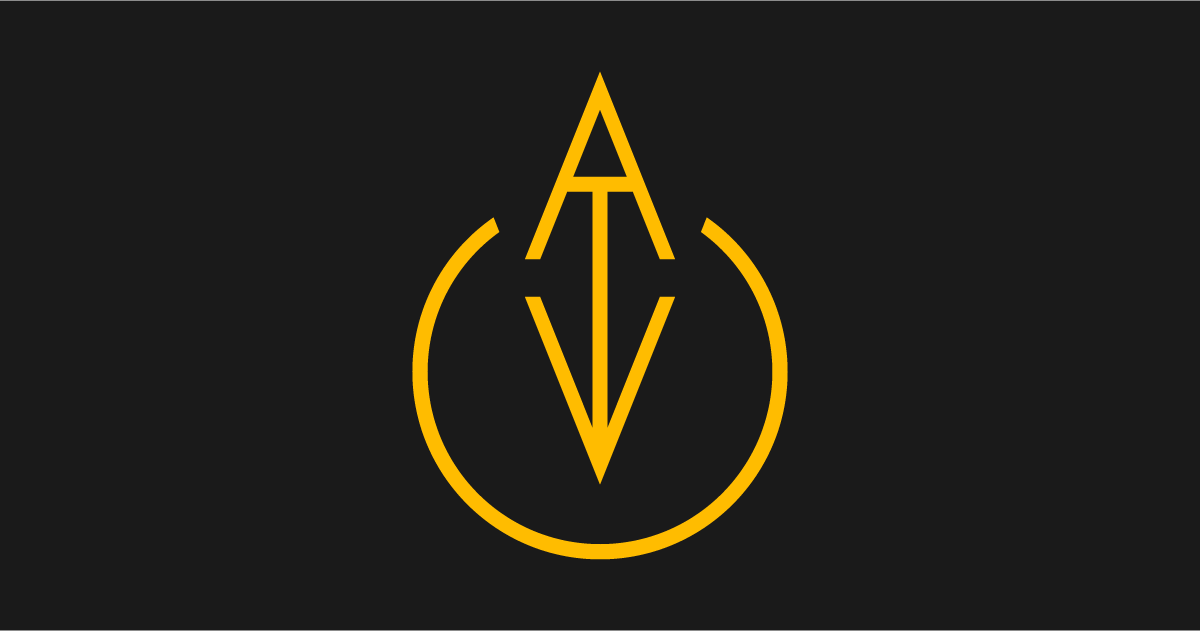
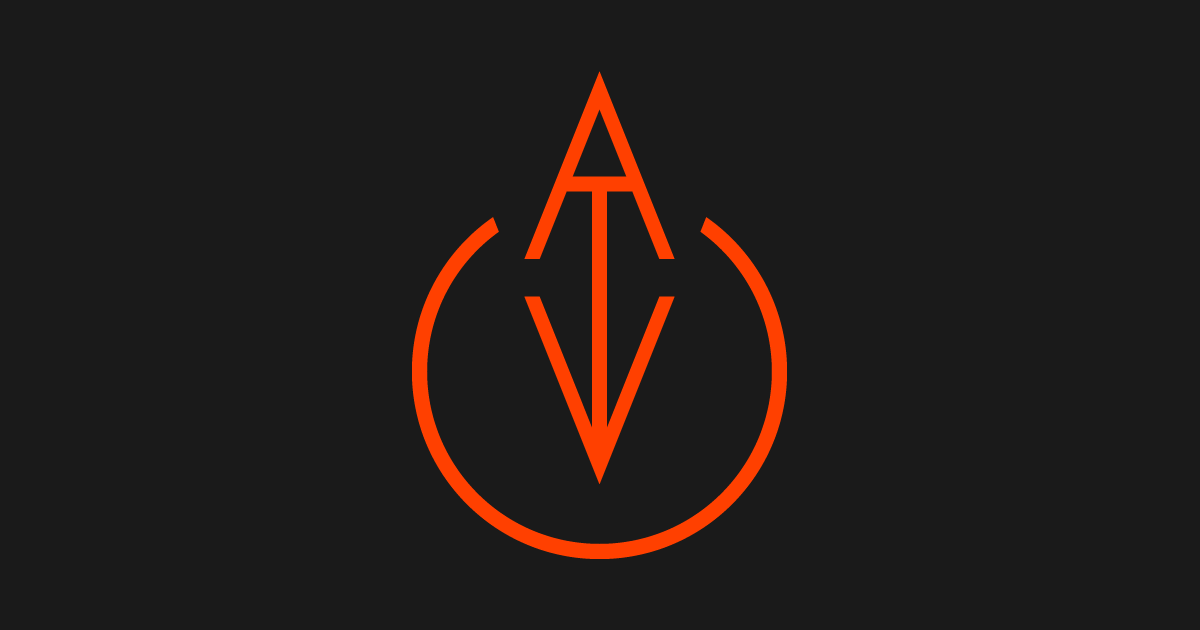
feat(UI): change primary color

Changed region(s): [[0.3392, 0.1206, 0.6783, 0.9048], [0.0, 0.9952, 1.0, 1.0]]

diff --git a/nuxt.config.js b/nuxt.config.js
@@ -2,6 +2,7 @@ const { author, config } = require('./package.json')
 
 const title = `${author.name} | Junior full-stack developer`
 const description = 'My name is Alain CAO VAN TRUONG. I am a full-stack web developer student and I currently study at HÉTIC, a web school based in Montreuil.'
+const color = '#FF4000'
 
 const BASE_URL = process.env.NODE_ENV === 'production'
   ? author.url
@@ -17,8 +18,8 @@ export default {
     meta: [
       { charset: 'utf-8' },
       { name: 'viewport', content: 'width=device-width, initial-scale=1' },
-      { name: 'msapplication-TileColor', content: '#FFBF00' },
-      { name: 'theme-color', content: '#FFBF00' },
+      { name: 'msapplication-TileColor', content: color },
+      { name: 'theme-color', content: color },
       { name: 'og:title', content: title },
       { name: 'og:description', content: description },
       { name: 'og:type', content: 'website' },
@@ -61,12 +62,12 @@ export default {
       {
         rel: 'mask-icon',
         href: '/safari-pinned-tab.svg',
-        color: '#FFBF00',
+        color,
       },
     ],
   },
   loading: {
-    color: '#FFBF00',
+    color,
     background: '#1A1A1A',
   },
   css: [

diff --git a/assets/styles/tools/_colors.scss b/assets/styles/tools/_colors.scss
@@ -1,7 +1,7 @@
 $colors: (
   dark: hsl(0, 0%, 10%),
   light: hsl(0, 0%, 100%),
-  primary: hsl(45, 100%, 50%),
+  primary: hsl(15, 100%, 50%),
 );
 
 $steps: (
